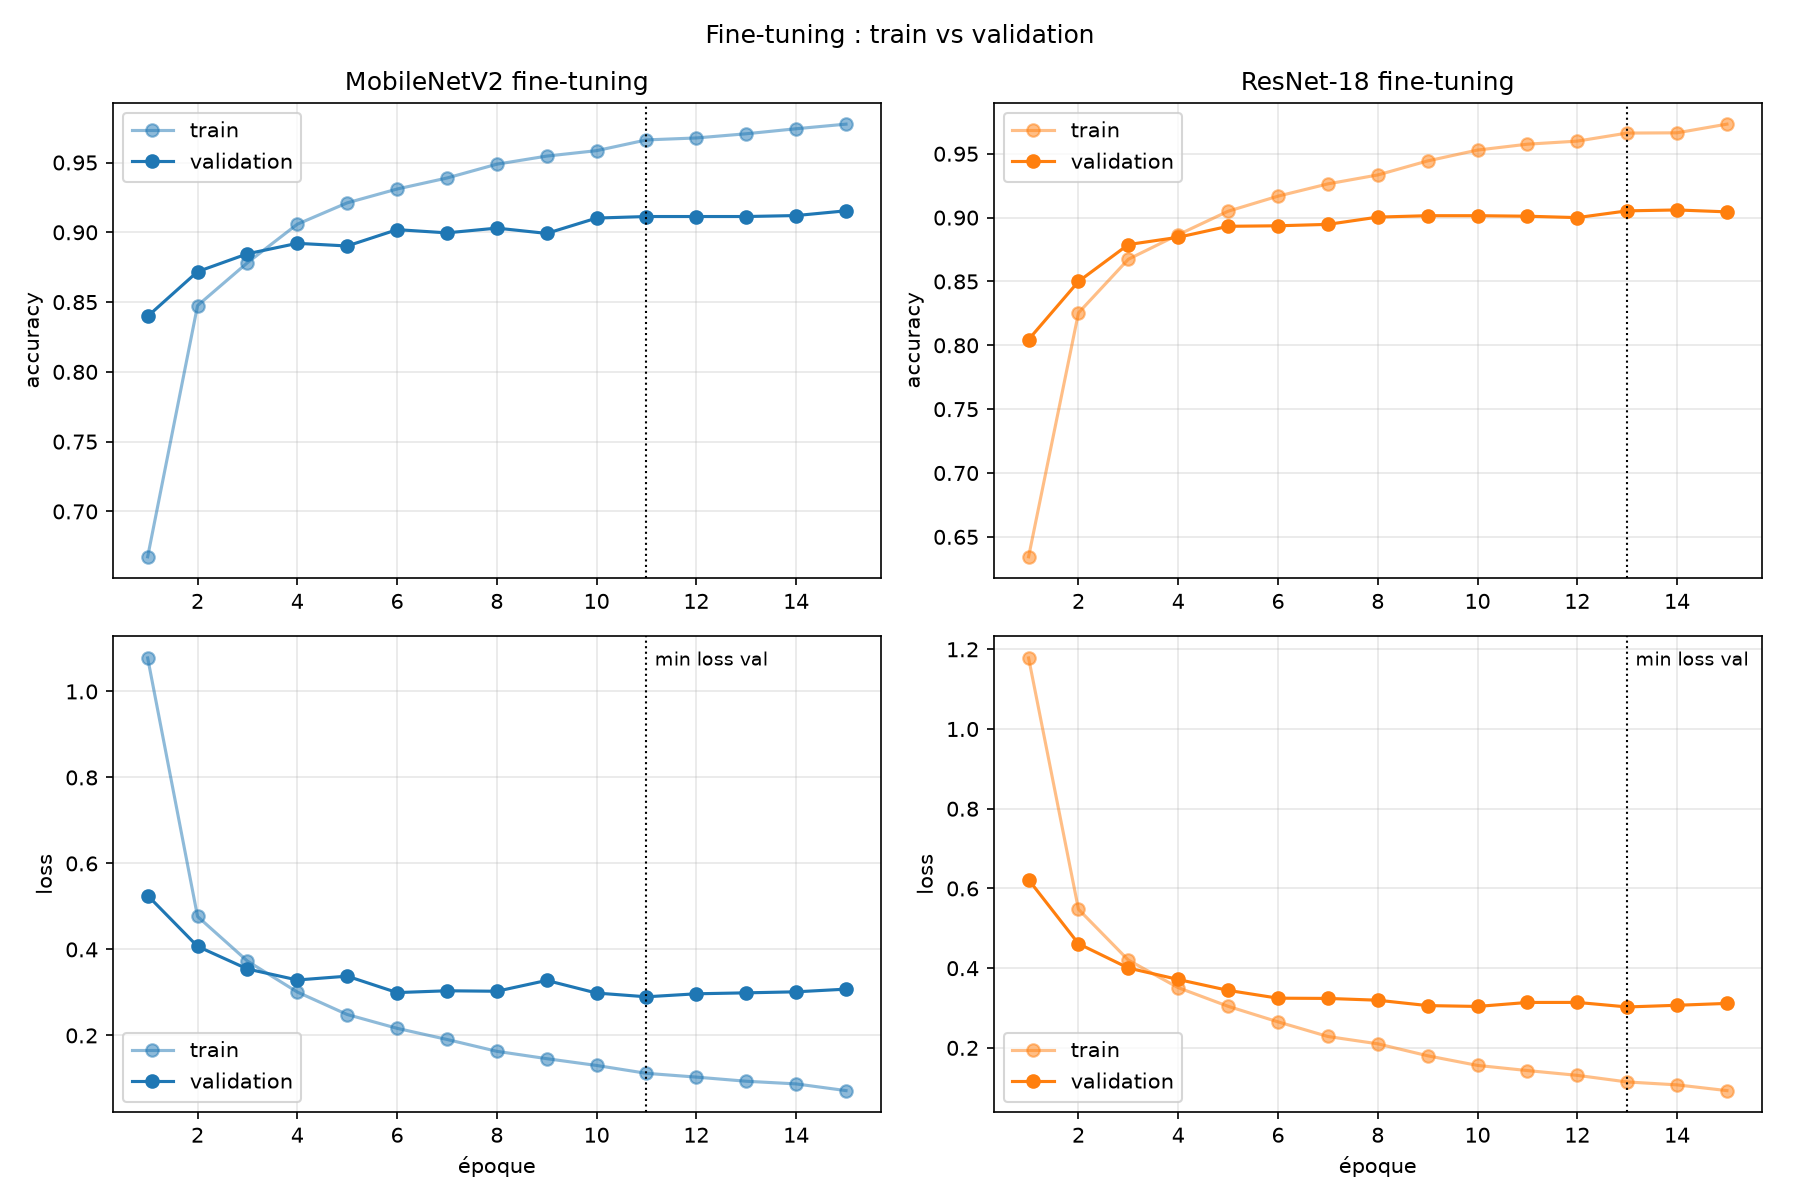
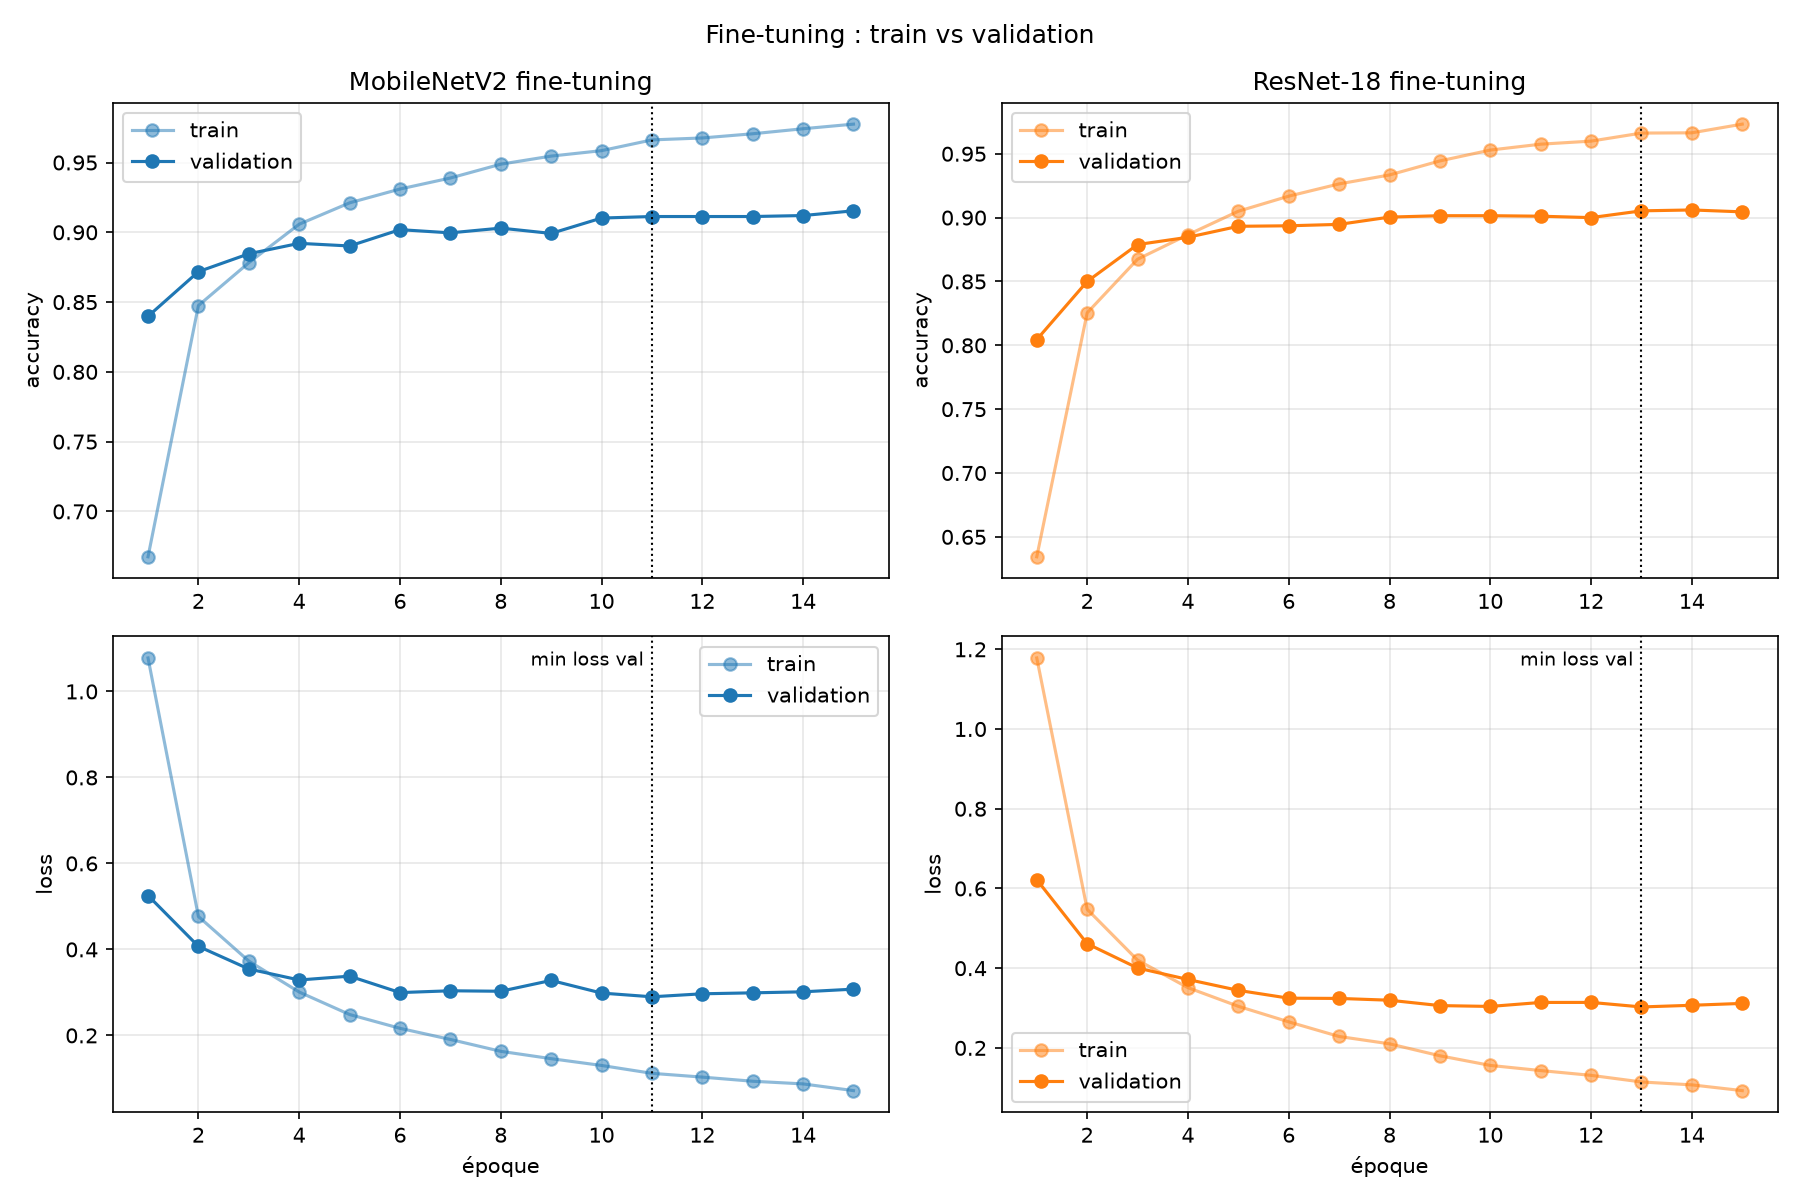
4.2 SUIVI_AVANCEMENT : diagnostic biais / variance corrigé, annotation des figures

diff --git a/analyse_entrainement.py b/analyse_entrainement.py
@@ -100,8 +100,11 @@ def figure_train_vs_val(historiques: dict[str, pd.DataFrame], runs: list[str], n
             ax.axvline(epoque_min, color="black", linestyle=":", linewidth=1)
             ax.grid(alpha=0.3)
             ax.legend()
+        # texte à gauche de la ligne si elle est dans la 2e moitié de l'axe, sinon il serait coupé
+        a_gauche = epoque_min > (h["epoque"].min() + h["epoque"].max()) / 2
         ax_loss.annotate("min loss val", xy=(epoque_min, ax_loss.get_ylim()[1]),
-                         xytext=(4, -14), textcoords="offset points", fontsize=9)
+                         xytext=(-4 if a_gauche else 4, -14), textcoords="offset points",
+                         ha="right" if a_gauche else "left", fontsize=9)
 
     fig.suptitle(titre)
     fig.tight_layout()

diff --git a/SUIVI_AVANCEMENT.md b/SUIVI_AVANCEMENT.md
@@ -86,6 +86,55 @@ Dernière mise à jour : 7 novembre 2026.
   - loss de validation minimale à l'époque 12 (1,71) puis remonte au-dessus de 2,2 : surapprentissage bien visible, figure utilisable pour la partie biais / variance.
 - **3.3** Protocole écrit dans `PROTOCOLE_AUGMENTATION.md` : meilleure config en fine-tuning, avec / sans `--no-augment`, 15 époques, seule l'augmentation change. Les commandes de fine-tuning du README sont passées à `--epochs 15` pour que le run de la 3.2 serve de référence.
 
+### Courbes d'apprentissage et diagnostic biais / variance (tâche 4.2)
+
+Figures : `results/figures/f1_validation_runs.png`, `train_vs_val_finetuning.png`, `train_vs_val_gele.png`.
+Synthèse chiffrée : `results/synthese_runs.csv`.
+
+| Run | Acc. train (dernière époque) | Acc. validation | Écart | Diagnostic |
+|---|---|---|---|---|
+| Baseline (TD) | 37,6 % | 36,4 % | 1,2 pt | biais élevé |
+| MobileNetV2 gelé | 84,7 % | 86,2 % | −1,6 pt | biais modéré, pas de variance |
+| ResNet-18 gelé | 85,0 % | 84,6 % | 0,4 pt | biais modéré, pas de variance |
+| MobileNetV2 fine-tuning | 97,8 % | 91,5 % | 6,2 pts | début de variance |
+| ResNet-18 fine-tuning | 97,3 % | 90,5 % | 6,9 pts | début de variance |
+
+Le diagnostic suit la grille du cours (complementary slides, p.25) : un écart faible entre train et
+validation avec des performances basses traduit un biais élevé (sous-apprentissage), un écart important
+traduit une variance élevée (surapprentissage).
+
+**Baseline.** La loss d'entraînement ne descend que de 2,17 à 1,82 en 20 époques, et les accuracies train
+et validation restent proches de 37 %. Le modèle n'apprend même pas correctement ses données d'entraînement :
+c'est un biais élevé. Une seule couche de 8 filtres 3×3 ne suffit pas à distinguer 11 catégories d'aliments.
+Les remèdes proposés par le cours en cas de biais élevé (complementary slides, p.28) sont d'utiliser un réseau
+plus gros ou de changer d'architecture, ce que fait précisément le transfer learning.
+
+**Modèles gelés.** Le F1 de validation plafonne entre 0,86 et 0,87 dès les époques 3 à 8 : entraîner plus
+longtemps n'apporterait presque rien. Il n'y a pas de surapprentissage (écart train / validation négligeable).
+La limite vient des features ImageNet figées, puisque seule la dernière couche est entraînée (14 091 paramètres
+pour MobileNetV2, 5 643 pour ResNet-18). L'accuracy de validation dépasse même légèrement celle du train pour
+MobileNetV2 : l'accuracy train est mesurée pendant l'entraînement, avec l'augmentation de données et le dropout
+actifs, ce qui la pénalise. MobileNetV2 gelé présente un décrochage ponctuel à l'époque 6 (accuracy de
+validation de 0,80, loss de 0,64), signe d'une oscillation de l'apprentissage de la tête avec un learning rate
+de 1e-2 ; le run se stabilise dès l'époque suivante. Le remède est de dégeler le réseau, c'est-à-dire de passer
+au fine-tuning.
+
+**Modèles en fine-tuning.** Ce sont les meilleurs modèles (F1 de validation de 0,9252 pour MobileNetV2 et
+0,9134 pour ResNet-18), mais l'écart train / validation atteint 6 à 7 points. La loss de validation atteint son
+minimum à l'époque 11 pour MobileNetV2 (0,290) et à l'époque 13 pour ResNet-18 (0,303), puis remonte (0,308 et
+0,312 à l'époque 15) alors que la loss d'entraînement continue de baisser : c'est le début du surapprentissage.
+Le F1 progresse encore, mais de seulement 0,005 sur les quatre dernières époques. Le meilleur modèle tombe en
+fin d'entraînement, mais les courbes montrent un plateau et non un modèle inachevé : augmenter le nombre
+d'époques accentuerait surtout la variance. Les remèdes du cours en cas de variance élevée sont l'augmentation
+de données et la régularisation (complementary slides, p.28) ; l'effet de l'augmentation est mesuré dans
+l'étude dédiée (tâche 4.4).
+
+**Temps de calcul.** Une époque de fine-tuning dure environ 42 s pour MobileNetV2 contre 27 s pour ResNet-18,
+alors que MobileNetV2 a cinq fois moins de paramètres (2,24 M contre 11,18 M). Ses convolutions en profondeur
+(depthwise) réduisent le nombre de paramètres mais sont moins efficacement exécutées sur GPU. Le score de
+frugalité du challenge ne compte que les paramètres : un modèle frugal au sens du challenge n'est pas
+forcément le plus rapide à entraîner.
+
 ### Prochaines tâches
 
 - **1.11** squelette du rapport et journal IA
